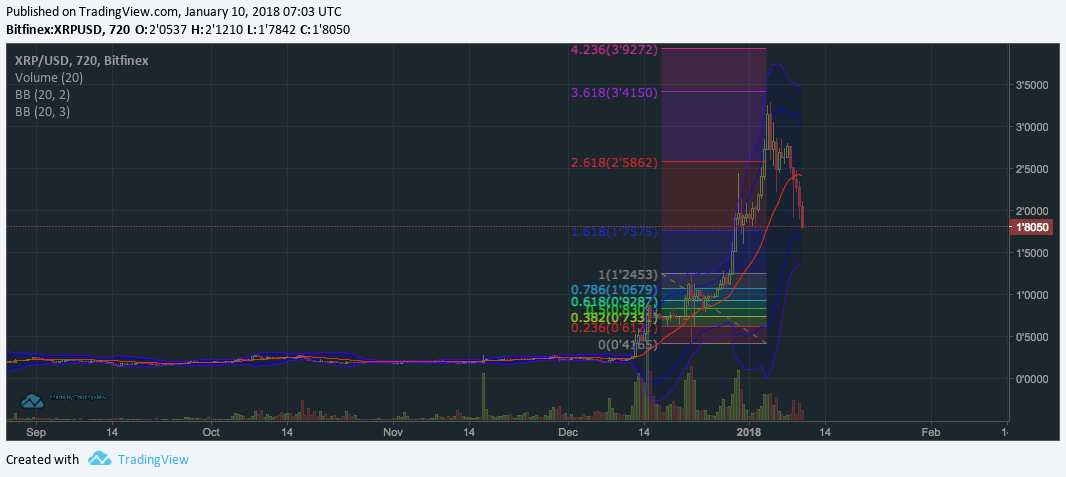
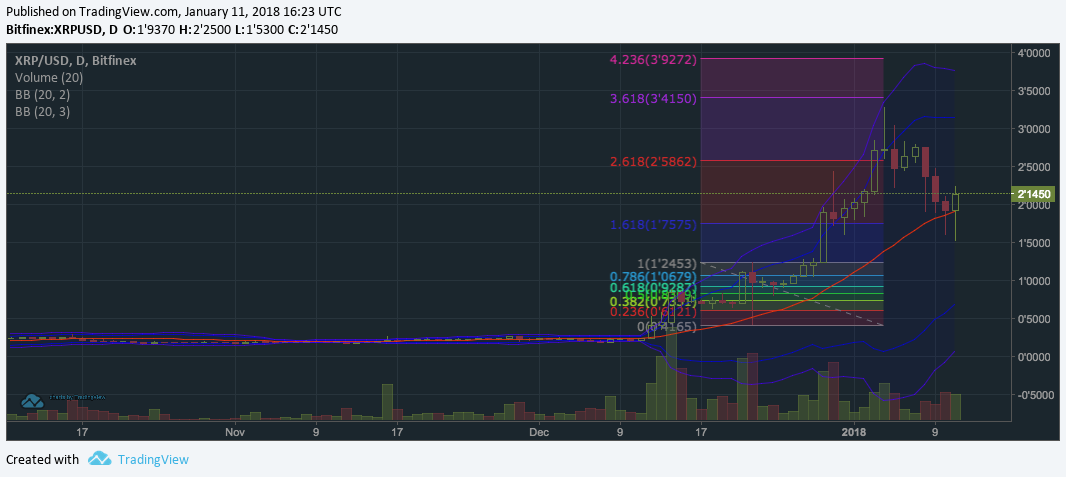
fibs

diff --git a/_fibs/daily.md b/_fibs/daily.md
@@ -1,7 +1,7 @@
 ---
 published: true
 date: 2017-12-27 10:36:00 +0100
-update: 2018-01-10 10:01:00 +0100
+update: 2018-01-11 17:41:00 +0100
 
 layout: fibs
 title: "Fib Levels for Crypto Markets"
@@ -17,18 +17,18 @@ name: "daily/"
 image: ["/features/fibs.jpeg"]
 
 dollars:
-- { market: "BTCUSD", chart: "/fibs/btcusd.png", comment: "Bitcoin broke down below the MA and keeps dumping. If there's not a bounce between 12.7k and 12.9k, 10k will be a real possibility." }
-- { market: "XRPUSD", chart: "/fibs/xrpusd.png", comment: "So the 3-something USD was the top for real. The 1.7 USD level doesn't look like holding, next potential bounce level would be at around 1.25 USD. Looks like this time the pumpcoin profits didn't flow to BTC though." }
-- { market: "ETHUSD", chart: "/fibs/ethusd.png", comment: "Despite all the bullish fundamentals ETH actually joined the blood on the streets today: what looked like a bull flag below a fib resistance broke down to previous breakout level around 1240 USD. There has been a good bounce though, and if the daily closes green the bias remains positive." }
-- { market: "IOTUSD", chart: "/fibs/iotusd.png", comment: "Consolidation broke down, although not too dramatically. " }
+- { market: "BTCUSD", chart: "/fibs/btcusd.png", comment: "Judging by the fact that on the SK FUD the price didn't drop wildly, the market seems to be gaining confidence. The bands are tightening and pointing horizontaly now, not down. Sitting on 2 fib support levels, this could actually bounce." }
+- { market: "IOTUSD", chart: "/fibs/iotusd.png", comment: "IOTA paints a similar situation as BTCUSD." }
+- { market: "XRPUSD", chart: "/fibs/xrpusd.png", comment: "Riding on the Moneygram partnership news. Technically, not considering wicks, the 1.7 USD fib level was somewhat respected after all and the candle close bounce from the 1D MA is bullish." }
+- { market: "ETHUSD", chart: "/fibs/ethusd.png", comment: "During the full on market crash, ETHUSD didn't drop past testing the previous ATH wicks. The bias is bullish but the market could also consolidate and form a range here before attacking 1400 USD again." }
 ratios:
-- { market: "ETHBTC", chart: "/fibs/ethbtc.png", comment: "Look at the bands! Rise to .1 BTC in one day yesterday was too much too fast. Even a dip to 0.08 and some consolidation would not be a place to panic." }
+- { market: "ETHBTC", chart: "/fibs/ethbtc.png", comment: "The surge to .1 BTC was indeed stopped by the bband. On the next push, there will be some resistance on the candle closes at .089 but the action depends on both ETHUSD and BTCUSD actions now." }
 ---
 
 
 > Relevant news for today
 
-* [5 alarming reasons Ripple might not be what you think](https://hackernoon.com/4-alarming-reasons-ripple-might-not-be-what-you-think-9debc3c86985) - for one, the coin does not have the same relationship to the Ripple company as for instance ETH to Ethereum.
-* [Block explorer declares BTC dead](https://blockexplorer.com/news/blockexplorer-support-bitcoin-cash-bitcoin-legacy/) and moves to call BTC "Bitcoin Legacy" and BCH "Bitcoin"
-* **[Bitfury de-anonymizes millions of bitcoin addresses](http://www.trustnodes.com/2018/01/09/bitfury-de-anonymises-millions-bitcoin-transactions-addresses)** - "It’s unclear whether that suggests they are working with law enforcement and if they are, which law enforcement that is. Two of the paper’s authors were funded by Bitfury while a third was funded by the Russian Science Foundation." ... "Crude ways around it are obfuscation methods whereby one makes a number of transactions for the sole purpose of de-linking the original identity to a specific address. In bitcoin, however, that is now very expensive, if at all possible, due to a very limited 1MB of data, which Bitfury campaigned to maintain perhaps in aid of their surveillance work." ... "Which spurred work on privacy for ethereum, while for bitcoin there hasn’t really been much movement with the project feeling stale at the protocol level."
-* [Update of the Electrum vulnerability](https://github.com/spesmilo/electrum-docs/blob/master/cve.rst) from its dev
+* [Moneygram partners with Ripple](https://www.wsj.com/articles/moneygram-signs-deal-to-work-with-currency-startup-ripple-1515679285) testing XRP usage
+* [South Korean authorities raided cryptocurrency exchanges](https://www.reddit.com/r/BitcoinMarkets/comments/7pls2r/megathread_korean_bans_crypto_episode_3/)
+* [The South Korean ban is not really a ban, as always](https://www.forbes.com/sites/pamelaambler/2017/12/12/south-korea-is-not-banning-bitcoin-trade-financial-regulators-clarify/amp/)
+* [EOS is making big gains today but apparently there is no news it can be attributed to](https://themerkle.com/eos-price-seems-to-be-stabilizing-near-10/)
